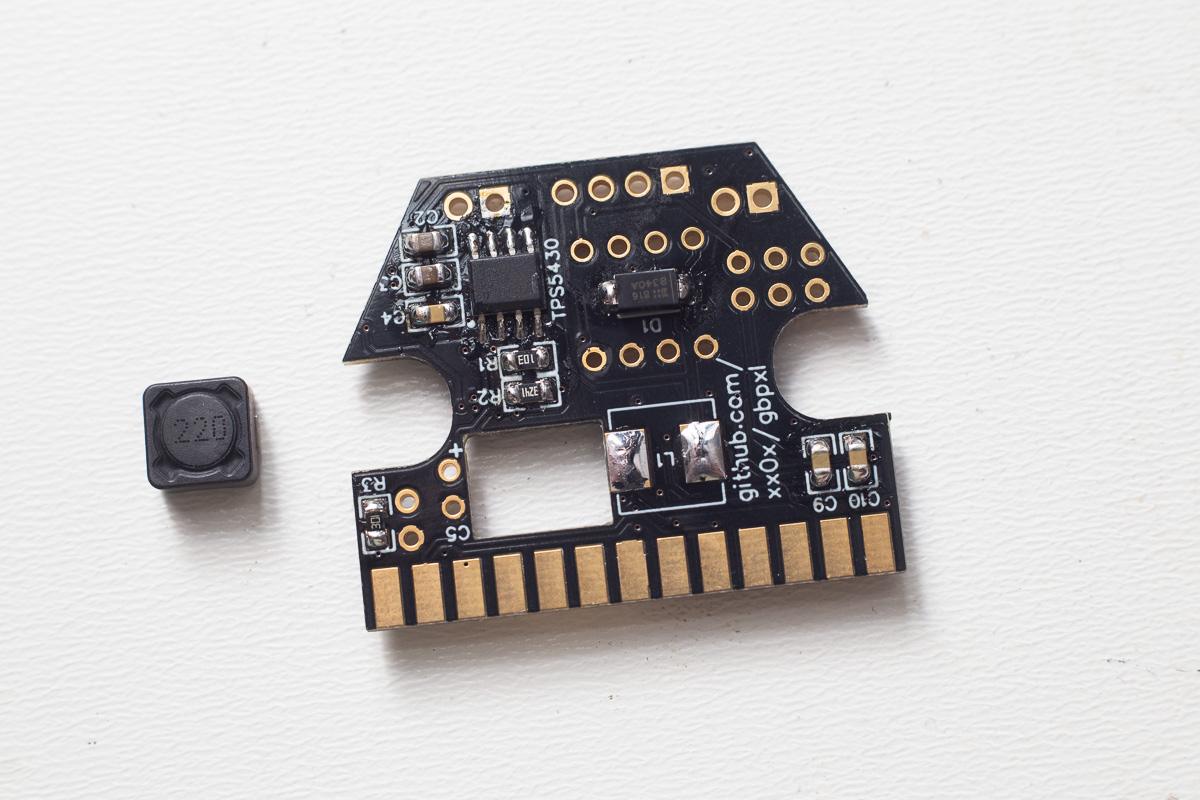
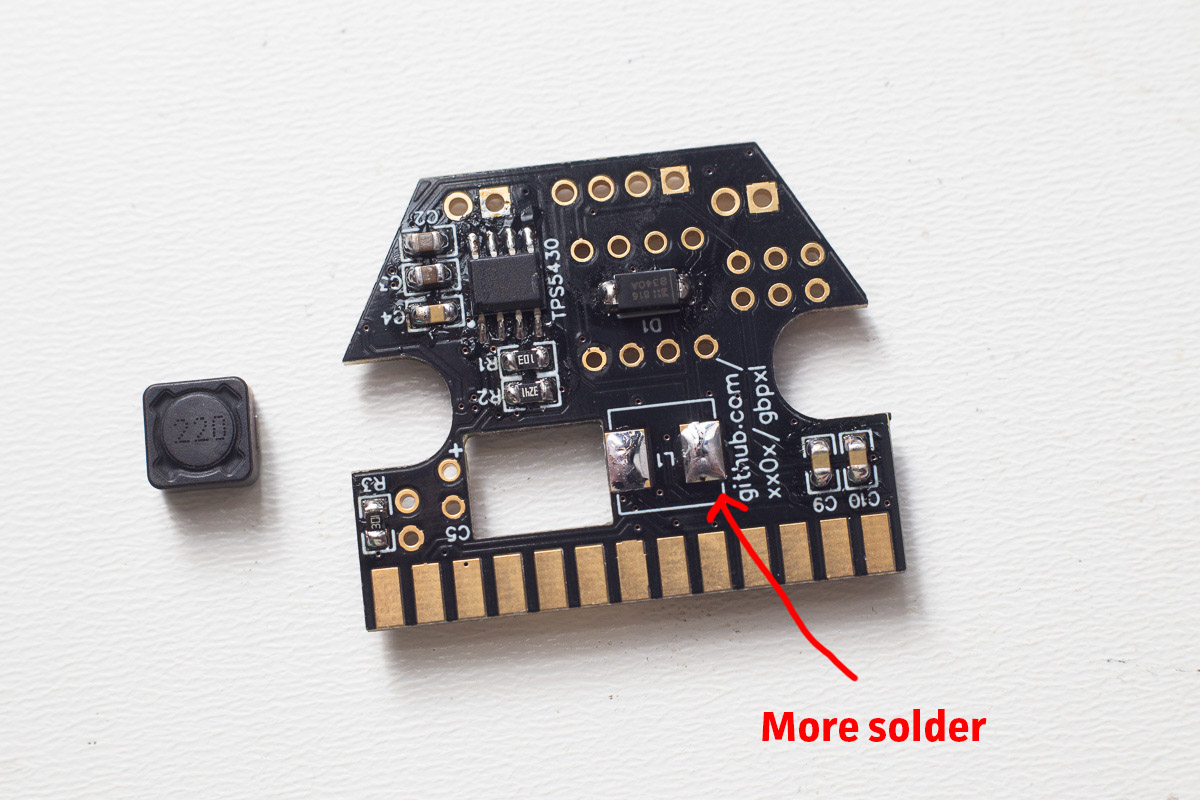
update build instructions

Changed region(s): [[0.6167, 0.875, 0.8325, 0.9375], [0.6167, 0.6562, 0.7092, 0.8438], [0.5858, 0.625, 0.6167, 0.6562]]

diff --git a/build-instructions/BUILD_INSTRUCTIONS.md b/build-instructions/BUILD_INSTRUCTIONS.md
@@ -60,56 +60,279 @@ Finish soldering the buck regulator, and remember, FLUX is your best friend!
 <img src="https://github.com/xx0x/gbpxl/raw/master/build-instructions/img/gbpxl-build-005.jpg" width="600" />
 
 &nbsp;
-&nbsp;
 
-**NOW PHOTOS ONLY, I'LL ADD THE TEXT DESCRIPTION IN FEW DAYS!**
+Tin one or two pads for the ATmega. Then, while reheating the pad, push the MCU into it with your tweezers.
 
 <img src="https://github.com/xx0x/gbpxl/raw/master/build-instructions/img/gbpxl-build-006.jpg" width="600" />
+
+&nbsp;
+
+Solder the oposite legs.
+
 <img src="https://github.com/xx0x/gbpxl/raw/master/build-instructions/img/gbpxl-build-007.jpg" width="600" />
+
+&nbsp;
+
+Then, make sure everything's how it's supposed to be and solder the rest. If you end up with solder bridges, you can use solder wick for sucking the excess solder.
+
 <img src="https://github.com/xx0x/gbpxl/raw/master/build-instructions/img/gbpxl-build-008.jpg" width="600" />
+
+&nbsp;
+
+You should end up with something like this.
+
 <img src="https://github.com/xx0x/gbpxl/raw/master/build-instructions/img/gbpxl-build-009.jpg" width="600" />
+
+&nbsp;
+
+Next, solder the 0805 capacitors and resistors. Resistors are easier, since they have their capacitance written on them. I've manually marked 10nF and 100nF capacitors since they look almost identical and there is one piece of each.
+
 <img src="https://github.com/xx0x/gbpxl/raw/master/build-instructions/img/gbpxl-build-010.jpg" width="600" />
+
+&nbsp;
+
+You can use exacto knife for separating the protective layer.
+
 <img src="https://github.com/xx0x/gbpxl/raw/master/build-instructions/img/gbpxl-build-011.jpg" width="600" />
+
+&nbsp;
+
+Again, tin one pad and then drag the component into the solder while reheating it. The polarity isn't important when soldering this capacitor.
+
 <img src="https://github.com/xx0x/gbpxl/raw/master/build-instructions/img/gbpxl-build-012.jpg" width="600" />
+
+&nbsp;
+
+Then, solder the opposite side.
+
 <img src="https://github.com/xx0x/gbpxl/raw/master/build-instructions/img/gbpxl-build-013.jpg" width="600" />
+
+&nbsp;
+
+I usually pre-tin pads for all components at once.
+
 <img src="https://github.com/xx0x/gbpxl/raw/master/build-instructions/img/gbpxl-build-014.jpg" width="600" />
+
 <img src="https://github.com/xx0x/gbpxl/raw/master/build-instructions/img/gbpxl-build-015.jpg" width="600" />
+
+&nbsp;
+
+The result should look like this.
+
 <img src="https://github.com/xx0x/gbpxl/raw/master/build-instructions/img/gbpxl-build-016.jpg" width="600" />
+
+&nbsp;
+
+Now let's continue with the bottom side. Watch out - the diode is polarized (the strip on the diode must match the strip on the PCB).
+
 <img src="https://github.com/xx0x/gbpxl/raw/master/build-instructions/img/gbpxl-build-017.jpg" width="600" />
+
+&nbsp;
+
+Then, prepare the pads for the inductor. I usually tin both pads, one with more solder.
+
 <img src="https://github.com/xx0x/gbpxl/raw/master/build-instructions/img/gbpxl-build-018.jpg" width="600" />
+
+&nbsp;
+
+Then drag the inductor into the solder while reheating the pad with more solder.
+
 <img src="https://github.com/xx0x/gbpxl/raw/master/build-instructions/img/gbpxl-build-019.jpg" width="600" />
+
+&nbsp;
+
+Then finish it by reheating the other pad from the side - adding little bit of solder helps!
+
 <img src="https://github.com/xx0x/gbpxl/raw/master/build-instructions/img/gbpxl-build-020.jpg" width="600" />
+
+&nbsp;
+
+Next comes the big capacitor - which has to be mounted sideways because of the clearance. The longer leg is the positive contact.
+
 <img src="https://github.com/xx0x/gbpxl/raw/master/build-instructions/img/gbpxl-build-021.jpg" width="600" />
+
+&nbsp;
+
+Bend the capacitor inside the PCB hole and solder it.
+
 <img src="https://github.com/xx0x/gbpxl/raw/master/build-instructions/img/gbpxl-build-022.jpg" width="600" />
+
+&nbsp;
+
+Then, cut the legs.
+
 <img src="https://github.com/xx0x/gbpxl/raw/master/build-instructions/img/gbpxl-build-023.jpg" width="600" />
+
+&nbsp;
+
+Solder the 3mm diode, the short leg goes to the flat side (closer to the RS232 connector).
+
 <img src="https://github.com/xx0x/gbpxl/raw/master/build-instructions/img/gbpxl-build-024.jpg" width="600" />
+
+&nbsp;
+
+Now, *almost complete*! :-)
+
 <img src="https://github.com/xx0x/gbpxl/raw/master/build-instructions/img/gbpxl-build-025.jpg" width="600" />
+
+## 2. Step: Adjusting the case
+
+Cut the unnecessary plastic supports, use flush cutters or a dremel tool. It doesn't have to look perfect, since it will be hidden inside. Just don't break the outside of the case.
+
 <img src="https://github.com/xx0x/gbpxl/raw/master/build-instructions/img/gbpxl-build-026.jpg" width="600" />
 <img src="https://github.com/xx0x/gbpxl/raw/master/build-instructions/img/gbpxl-build-027.jpg" width="600" />
+
+## 3. Step: Soldering the RS232 connector
+
+Position the connector and PCB into the case. Support the PCB with something (eg. your tweezers) on the side opposite the connector and try to align everything as best as possible.
+
+**Solder only two contacts!**
+
 <img src="https://github.com/xx0x/gbpxl/raw/master/build-instructions/img/gbpxl-build-028.jpg" width="600" />
+
+&nbsp;
+
+Then, take out the PCB and solder one contact on the opposite side.
+
 <img src="https://github.com/xx0x/gbpxl/raw/master/build-instructions/img/gbpxl-build-029.jpg" width="600" />
+
+&nbsp;
+
+Make sure everything's straight and that it fits inside the connector case. Since **the last thing you want to do is having to de-solder the connector** because it doesn't fit inside.
+
 <img src="https://github.com/xx0x/gbpxl/raw/master/build-instructions/img/gbpxl-build-030.jpg" width="600" />
+
+&nbsp;
+
+If everything fits, solder the rest of pins on both sides. Use a lot of solder to make the connection strong!
+
 <img src="https://github.com/xx0x/gbpxl/raw/master/build-instructions/img/gbpxl-build-031.jpg" width="600" />
+
+## 4. Step: Cleaning
+
+Next, use some rubbing alcohol for cleaning the flux remainings. I like to clean the PCB now, since it's much easier without the DIP switch.
+
 <img src="https://github.com/xx0x/gbpxl/raw/master/build-instructions/img/gbpxl-build-032.jpg" width="600" />
+
+&nbsp;
+
+**Much better!**
+
 <img src="https://github.com/xx0x/gbpxl/raw/master/build-instructions/img/gbpxl-build-033.jpg" width="600" />
+
 <img src="https://github.com/xx0x/gbpxl/raw/master/build-instructions/img/gbpxl-build-034.jpg" width="600" />
+
+## 5. Step: DIP Switch soldering
+
+Solder the two opposite pins while holding the DIP switch inside. 
+
 <img src="https://github.com/xx0x/gbpxl/raw/master/build-instructions/img/gbpxl-build-035.jpg" width="600" />
+
+&nbsp;
+
+If everything's OK and flat, solder the remaining pins.
+
 <img src="https://github.com/xx0x/gbpxl/raw/master/build-instructions/img/gbpxl-build-036.jpg" width="600" />
+
+&nbsp;
+
+**Almost there!**
+
 <img src="https://github.com/xx0x/gbpxl/raw/master/build-instructions/img/gbpxl-build-037.jpg" width="600" />
+
+## 6. Step: Cable relief adjustments
+
+The cable relief is kind of long by default - it's not neccessary, but it's better to shorten it to approx 2.5cm.
+
 <img src="https://github.com/xx0x/gbpxl/raw/master/build-instructions/img/gbpxl-build-038.jpg" width="600" />
+
+&nbsp;
+
+Next, cut 2 small notches for the PCB (approx 2mm wide).
+
 <img src="https://github.com/xx0x/gbpxl/raw/master/build-instructions/img/gbpxl-build-039.jpg" width="600" />
 <img src="https://github.com/xx0x/gbpxl/raw/master/build-instructions/img/gbpxl-build-040.jpg" width="600" />
+
+&nbsp;
+
+Everything should fit nicely.
+
 <img src="https://github.com/xx0x/gbpxl/raw/master/build-instructions/img/gbpxl-build-041.jpg" width="600" />
+
+## 7. Step: Cables
+
+First, prepare the link cable. Strip it and cut the unnecessary cables. You will only need BROWN (SO), GREEN (SI), BLUE (SC), RED (GND) cables. Pre-tin them.
+
+**Don't forget to pull the cable through the cable relief!**
+
 <img src="https://github.com/xx0x/gbpxl/raw/master/build-instructions/img/gbpxl-build-042.jpg" width="600" />
+
+&nbsp;
+
+Solder the connections.
+
 <img src="https://github.com/xx0x/gbpxl/raw/master/build-instructions/img/gbpxl-build-043.jpg" width="600" />
+
+&nbsp;
+
+Next, solder the power cable in the similar way. RED (VIN), GREEN (GND).
+
+**Don't forget to pull the cable through the cable relief before soldering!**
+
 <img src="https://github.com/xx0x/gbpxl/raw/master/build-instructions/img/gbpxl-build-044.jpg" width="600" />
+
+## 8. Step: First test
+
+Plug the gbpxl into the printer, connect the power cable and power the printer on. The red LED should light on within fraction of second - that means the device is ready. **If the LED doesn't turn on, immediately unplug the device and check all the solder connections for possible solder bridges etc.**
+
+If everything's fine, set the DIP switches according to your printer (baud rate, method).
+
+I know that my printer is set to 38400 baud rate, that's why the 3rd switch is ON. If you are not sure, try to turn all switches off.
+
 <img src="https://github.com/xx0x/gbpxl/raw/master/build-instructions/img/gbpxl-build-045.jpg" width="600" />
+
+&nbsp;
+
+Then, when device is running, short the two pads called BTN. That should print a test image stored in the buffer when the device turns on.
+
 <img src="https://github.com/xx0x/gbpxl/raw/master/build-instructions/img/gbpxl-build-046.jpg" width="600" />
+
+&nbsp;
+
+The printer should start printing and the result should look like this. (That's me, lol).
+
+This was printed with 2x scaling and ESC * method. But since my printer is 80 mm type and supports *modern* printing method with less banding, I changed the settings to 3x scaling and GS ( L method by turning switches 1 and 4 to ON position. You will find all the combinations in the README here on GitHub.
+
 <img src="https://github.com/xx0x/gbpxl/raw/master/build-instructions/img/gbpxl-build-047.jpg" width="600" />
+
+&nbsp;
+
+Next, connect your Game Boy and try to print a photo from it.
+
 <img src="https://github.com/xx0x/gbpxl/raw/master/build-instructions/img/gbpxl-build-048.jpg" width="600" />
+
+## 9. Step: Finishing touches
+
+Use hot glue to secure the cables inside the cable relief.
+
 <img src="https://github.com/xx0x/gbpxl/raw/master/build-instructions/img/gbpxl-build-049.jpg" width="600" />
+
+&nbsp;
+
+I used red hot glue, but any hot glue should work the same...
+
 <img src="https://github.com/xx0x/gbpxl/raw/master/build-instructions/img/gbpxl-build-050.jpg" width="600" />
+
+&nbsp;
+
+Screw everything together.
+
 <img src="https://github.com/xx0x/gbpxl/raw/master/build-instructions/img/gbpxl-build-051.jpg" width="600" />
+
+## 10. Step: Enjoy!
+
+Don't forget to share your results on your favorite social network using #gbpxl tag!
+
 <img src="https://github.com/xx0x/gbpxl/raw/master/build-instructions/img/gbpxl-build-052.jpg" width="600" />
 
 
